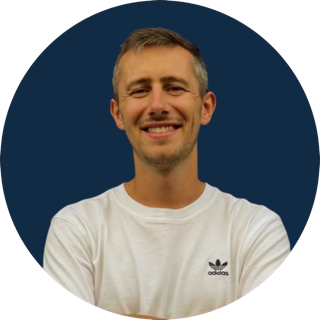
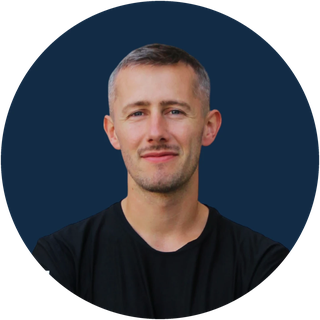
Page équipe : nouveaux portraits de l'orga (9 photos remplacées)

diff --git a/notre-equipe.html b/notre-equipe.html
@@ -257,35 +257,35 @@ footer{background:var(--navy-deep);padding:40px 60px;}
   <div class="amedia-hint" style="margin:0 0 14px;">← Glissez pour découvrir →</div>
   <div class="orga-grid reveal-children">
     <div class="orga-card"><div class="card-inner">
-      <div class="card-front"><img src="images/equipe/hugo.png" alt="Hugo" class="orga-photo" loading="lazy" decoding="async"><div class="orga-name">Hugo</div><div class="orga-role">Président</div></div>
+      <div class="card-front"><img src="images/equipe/hugo.png?v=6" alt="Hugo" class="orga-photo" loading="lazy" decoding="async"><div class="orga-name">Hugo</div><div class="orga-role">Président</div></div>
       <div class="card-back"><div class="card-back-text">Après chaque montée, il y a une descente.</div></div>
     </div></div>
     <div class="orga-card"><div class="card-inner">
-      <div class="card-front"><img src="images/equipe/thomas-vice-president.png" alt="Thomas" class="orga-photo" loading="lazy" decoding="async"><div class="orga-name">Thomas</div><div class="orga-nick">« El coche »</div><div class="orga-role">Vice-Président</div></div>
+      <div class="card-front"><img src="images/equipe/thomas-vice-president.png?v=6" alt="Thomas" class="orga-photo" loading="lazy" decoding="async"><div class="orga-name">Thomas</div><div class="orga-nick">« El coche »</div><div class="orga-role">Vice-Président</div></div>
       <div class="card-back"><div class="card-back-text">Les relations humaines, vous savez...</div></div>
     </div></div>
     <div class="orga-card"><div class="card-inner">
-      <div class="card-front"><img src="images/equipe/julien-secretaire-general.png" alt="Julien" class="orga-photo" loading="lazy" decoding="async"><div class="orga-name">Julien</div><div class="orga-role">Secrétaire général</div></div>
+      <div class="card-front"><img src="images/equipe/julien-secretaire-general.png?v=6" alt="Julien" class="orga-photo" loading="lazy" decoding="async"><div class="orga-name">Julien</div><div class="orga-role">Secrétaire général</div></div>
       <div class="card-back"><div class="card-back-text">Bonjour, je suis coach.</div></div>
     </div></div>
     <div class="orga-card"><div class="card-inner">
-      <div class="card-front"><img src="images/equipe/candice.png" alt="Candice" class="orga-photo" loading="lazy" decoding="async"><div class="orga-name">Candice</div><div class="orga-role">Trésorière</div><div class="orga-role2">Référente prévention &amp; sécurité</div></div>
+      <div class="card-front"><img src="images/equipe/candice.png?v=6" alt="Candice" class="orga-photo" loading="lazy" decoding="async"><div class="orga-name">Candice</div><div class="orga-role">Trésorière</div><div class="orga-role2">Référente prévention &amp; sécurité</div></div>
       <div class="card-back"><div class="card-back-text">Mieux vaut avoir des courbatures que des regrets.</div></div>
     </div></div>
     <div class="orga-card"><div class="card-inner">
-      <div class="card-front"><img src="images/equipe/floriane.png" alt="Floriane" class="orga-photo" loading="lazy" decoding="async"><div class="orga-name">Floriane</div><div class="orga-role">Événementiel</div></div>
+      <div class="card-front"><img src="images/equipe/floriane.png?v=6" alt="Floriane" class="orga-photo" loading="lazy" decoding="async"><div class="orga-name">Floriane</div><div class="orga-role">Événementiel</div></div>
       <div class="card-back"><div class="card-back-text">Je voyage pour le boulot, je cours pour profiter du voyage.</div></div>
     </div></div>
     <div class="orga-card"><div class="card-inner">
-      <div class="card-front"><img src="images/equipe/thomas-evenementiel.png" alt="Thomas" class="orga-photo" loading="lazy" decoding="async"><div class="orga-name">Thomas</div><div class="orga-role">Événementiel</div></div>
+      <div class="card-front"><img src="images/equipe/thomas-evenementiel.png?v=6" alt="Thomas" class="orga-photo" loading="lazy" decoding="async"><div class="orga-name">Thomas</div><div class="orga-role">Événementiel</div></div>
       <div class="card-back"><div class="card-back-text">Viva la vida.</div></div>
     </div></div>
     <div class="orga-card"><div class="card-inner">
-      <div class="card-front"><img src="images/equipe/alban.png" alt="Alban" class="orga-photo" loading="lazy" decoding="async"><div class="orga-name">Alban</div><div class="orga-role">Événementiel</div></div>
+      <div class="card-front"><img src="images/equipe/alban.png?v=6" alt="Alban" class="orga-photo" loading="lazy" decoding="async"><div class="orga-name">Alban</div><div class="orga-role">Événementiel</div></div>
       <div class="card-back"><div class="card-back-text">Tout le monde est sympa sauf moi.</div></div>
     </div></div>
     <div class="orga-card"><div class="card-inner">
-      <div class="card-front"><img src="images/equipe/julia.png?v=5" alt="Julia" class="orga-photo" loading="lazy" decoding="async"><div class="orga-name">Julia</div><div class="orga-role">Événementiel</div><div class="orga-role2">Référente prévention &amp; sécurité</div></div>
+      <div class="card-front"><img src="images/equipe/julia.png?v=6" alt="Julia" class="orga-photo" loading="lazy" decoding="async"><div class="orga-name">Julia</div><div class="orga-role">Événementiel</div><div class="orga-role2">Référente prévention &amp; sécurité</div></div>
       <div class="card-back"><div class="card-back-text">Je suis venue par hasard en novembre 2024 et je ne suis jamais repartie.</div></div>
     </div></div>
     <div class="orga-card"><div class="card-inner">
@@ -293,7 +293,7 @@ footer{background:var(--navy-deep);padding:40px 60px;}
       <div class="card-back"><div class="card-back-text">J'ai fait le Marathon de New York.</div></div>
     </div></div>
     <div class="orga-card"><div class="card-inner">
-      <div class="card-front"><img src="images/equipe/manon.png" alt="Manon" class="orga-photo" loading="lazy" decoding="async"><div class="orga-name">Manon</div><div class="orga-role">Communication</div></div>
+      <div class="card-front"><img src="images/equipe/manon.png?v=6" alt="Manon" class="orga-photo" loading="lazy" decoding="async"><div class="orga-name">Manon</div><div class="orga-role">Communication</div></div>
       <div class="card-back"><div class="card-back-text">Je cours après ce qui est instagrammable.</div></div>
     </div></div>
   </div>
